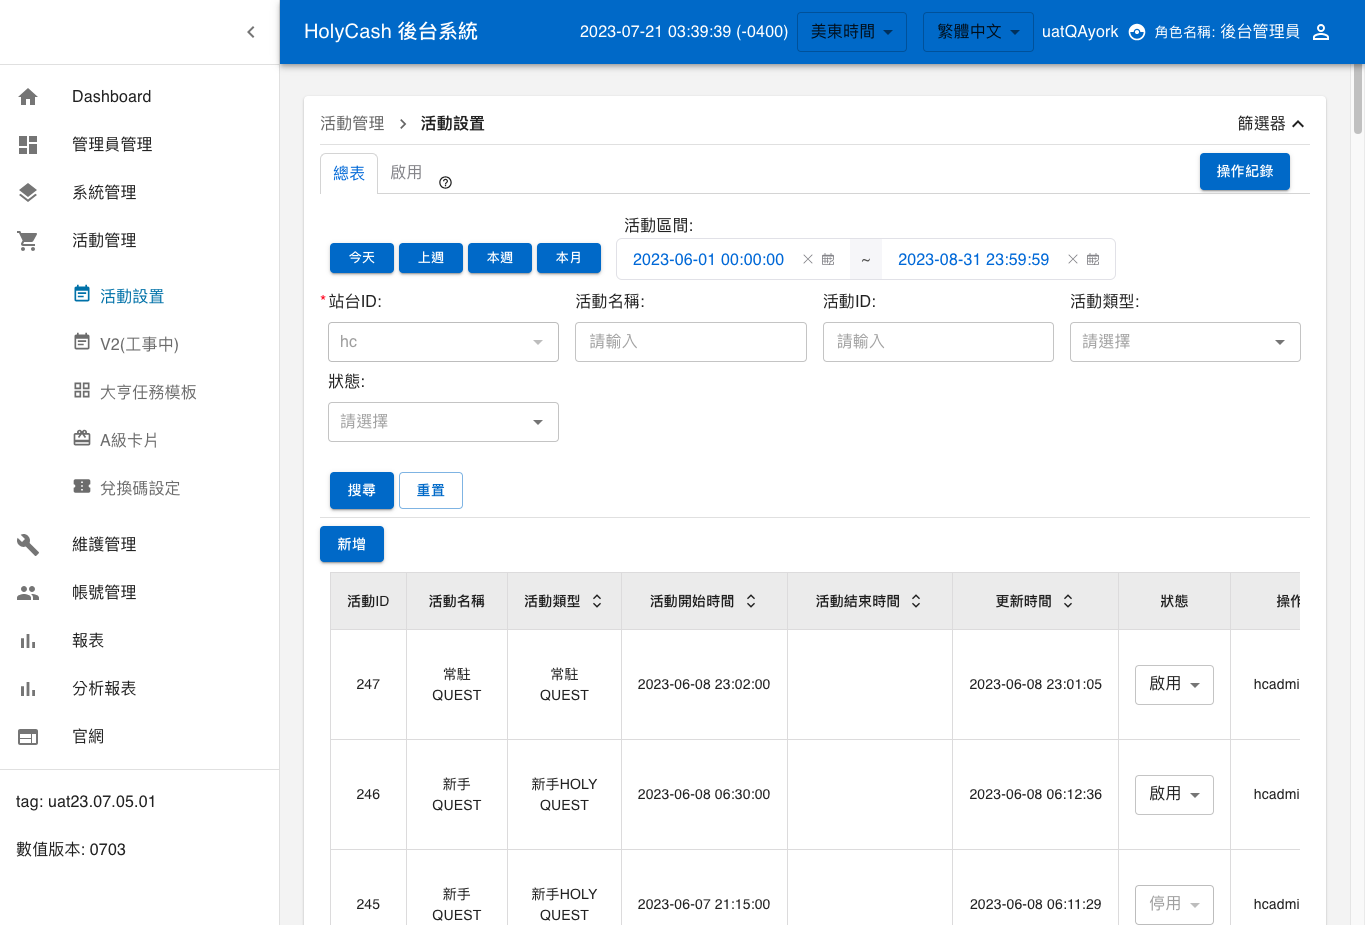
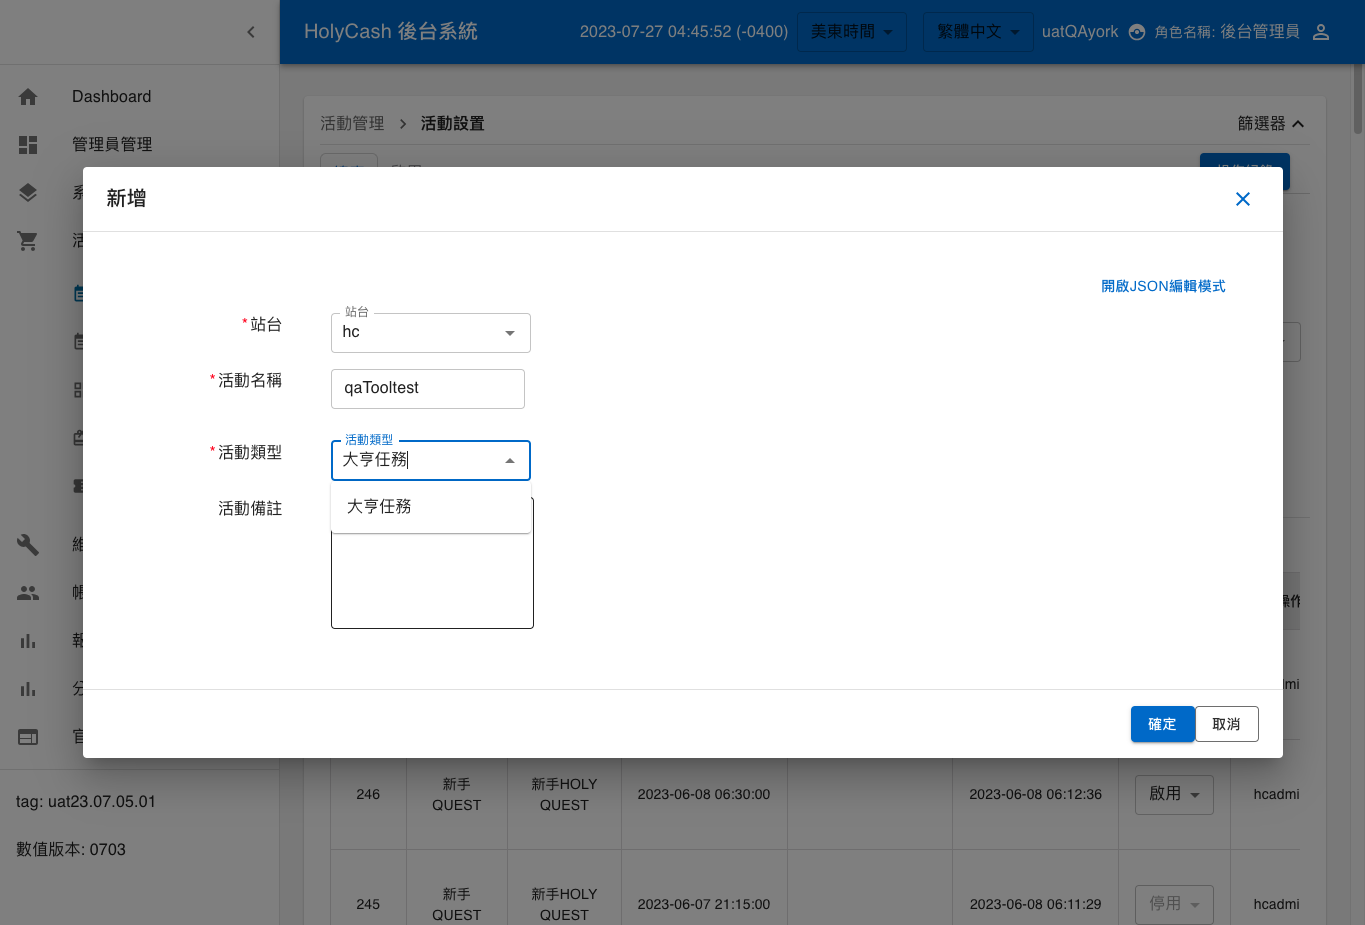
20230731

diff --git a/selenium/QAT_ Backstage.py b/selenium/QAT_ Backstage.py
@@ -34,16 +34,7 @@ password = driver.find_element(By.ID, ":r1:")
 password.send_keys("qa156156")
 loginbtn = driver.find_element(By.CSS_SELECTOR,"[type='button']")
 loginbtn.send_keys(Keys.ENTER)
-
-# -------------------------------------------------------------------完成以上動作後停止X秒
-time.sleep(3)
-
-# -------------------------------------------------------------------出錯時抓consolelog並寫入csv檔案
-console_logs = driver.get_log("browser")
-
-if  console_logs != "":
-    with open(f"log{timestamp}.csv", mode="w", newline="") as log:
-        csv.writer(log).writerow(console_logs)
+time.sleep(1)
 
 # -------------------------------------------------------------------抓到活動管理按鍵 並點擊
 ActivityManagement = driver.find_element(By.XPATH, "//span[contains(text(), '活動管理')]")
@@ -54,6 +45,34 @@ time.sleep(2)
 ActivitySettings = driver.find_element(By.XPATH, "//span[contains(text(), '活動設置')]")
 ActivitySettings.click()
 time.sleep(2)
+
+# -------------------------------------------------------------------抓到新增按鍵 並點擊
+addActivity = driver.find_element(By.XPATH, "//button[contains(text(), '新增')]")
+addActivity.click()
+print(addActivity.text)
+time.sleep(2)
+
+# -------------------------------------------------------------------抓到並填寫活動名稱欄位
+activityName = driver.find_element(By.ID, ":r2a:")
+activityName.send_keys("qaTooltest")
+time.sleep(2)
+
+# -------------------------------------------------------------------抓到並填寫活動類型欄位
+activityName = driver.find_element(By.ID, ":r2b:")
+activityName.send_keys("大亨任務")
+time.sleep(0.5)
+
+# -------------------------------------------------------------------抓到並填寫活動類型欄位
+activityStartTime = driver.find_element(By.XPATH, "//span[contains(text(), '開始時間')]")
+activityStartTime.send_keys(timestamp)
+time.sleep(0.5)
+
+# -------------------------------------------------------------------出錯時抓consolelog並寫入csv檔案
+# console_logs = driver.get_log("browser")
+
+# if  console_logs != "":
+#     with open(f"log{timestamp}.csv", mode="w", newline="") as log:
+#         csv.writer(log).writerow(console_logs)
 
 # -------------------------------------------------------------------截圖
 driver.save_screenshot("123.png")
